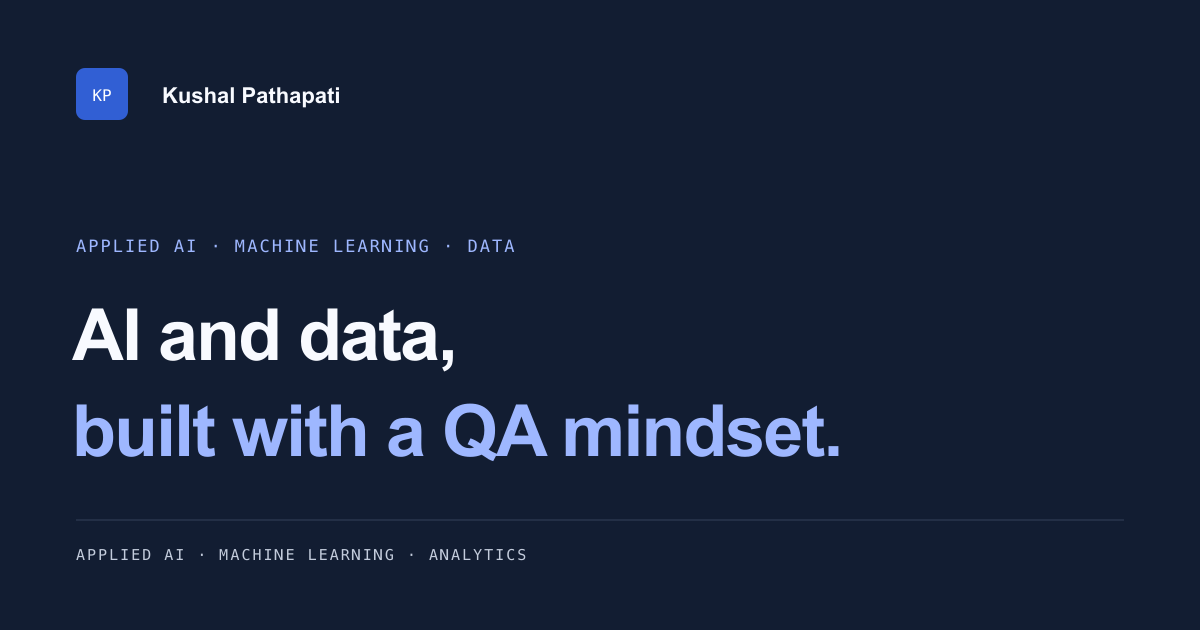
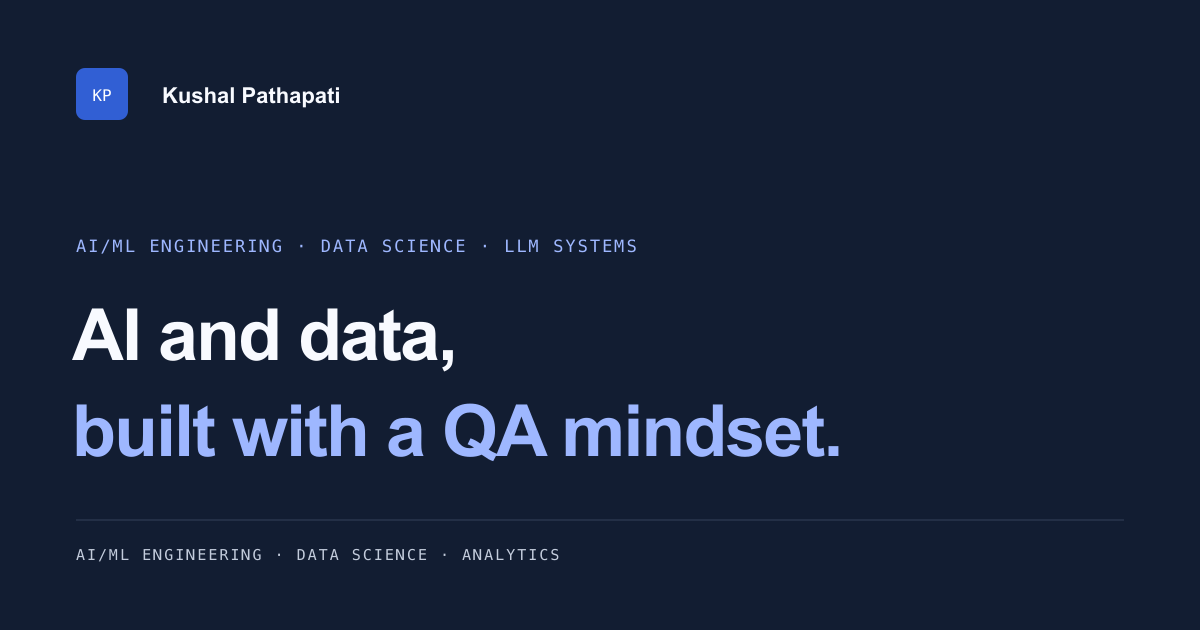
Add FinSight live app and refine AI data focus

Changed region(s): [[0.0617, 0.3619, 0.5242, 0.4222], [0.0617, 0.8746, 0.4625, 0.9048]]

diff --git a/src/pages/Index.tsx b/src/pages/Index.tsx
@@ -20,8 +20,9 @@ const projects = [
     date: "2026", category: "APPLIED AI · LLM SYSTEMS",
     summary: "A financial research assistant that routes questions to indexed SEC filing evidence, market-data tools, or both, then checks the answer against the evidence it collected.",
     repo: "https://github.com/Kushalraju098/FinSight_AI",
-    demo: "https://finsight-backend-626144383400.northamerica-northeast2.run.app/docs",
-    demoLabel: "API docs · may take ~30s after idle",
+    demo: "https://finsight-ai-626144383400.northamerica-northeast2.run.app/",
+    demoLabel: "Open live app",
+    apiDocs: "https://finsight-backend-626144383400.northamerica-northeast2.run.app/docs",
     tags: ["Python", "FastAPI", "LangGraph", "RAG", "Pinecone", "MCP", "Streamlit", "Docker", "Google Cloud Run"],
     proof: ["7-case evaluation set", "RAG + MCP routing", "SEC filing corpus"],
     problem: "Financial research questions often mix historical filing facts with live market information. Using one source for both makes it easy to give a stale price or an unsupported filing claim.",
@@ -91,10 +92,10 @@ const projects = [
 const skillGroups = [
   { title: "Programming & analytics", skills: ["Python", "SQL", "Pandas", "NumPy", "R", "Excel", "Power BI", "DAX"] },
   { title: "Machine learning", skills: ["scikit-learn", "XGBoost", "Regression", "Classification", "Model evaluation"] },
-  { title: "Deep learning & NLP", skills: ["TensorFlow", "NLP", "Text preprocessing"] },
+  { title: "Deep learning & NLP", skills: ["TensorFlow", "Neural networks", "Transformers", "NLP", "Text preprocessing"] },
   { title: "Generative AI", skills: ["RAG", "Embeddings", "LangChain", "LangGraph", "AI agents", "MCP", "LLM evaluation"] },
   { title: "Backend & integrations", skills: ["FastAPI", "Flask", "REST APIs", "Pydantic"] },
-  { title: "Automation & software quality", skills: ["Selenium", "Pytest", "Robot Framework"] },
+  { title: "Automation & software quality", skills: ["Selenium"] },
 ];
 
 const experience = [
@@ -156,6 +157,7 @@ function ProjectCaseStudy({ project, index }: { project: (typeof projects)[numbe
           <div className="case-links">
             <a href={project.repo} target="_blank" rel="noreferrer">Source <Github size={15} aria-hidden="true" /></a>
             {project.demo && <a href={project.demo} target="_blank" rel="noreferrer">{project.demoLabel} <ExternalLink size={15} aria-hidden="true" /></a>}
+            {project.apiDocs && <a href={project.apiDocs} target="_blank" rel="noreferrer">API docs <ExternalLink size={15} aria-hidden="true" /></a>}
           </div>
         </div>
         <p className="case-summary">{project.summary}</p>
@@ -252,10 +254,10 @@ export default function Index() {
             <div className="hero-copy">
               <div className="availability"><span className="availability-dot" /> TORONTO, ON <span className="availability-sep">·</span> OPEN TO OPPORTUNITIES</div>
               <h1 id="hero-title">AI and data,<br /><span>built with a QA mindset.</span></h1>
-              <p className="hero-lede">I build practical LLM and analytics applications with the testing discipline I developed in financial-data validation and software quality. I’m open to AI/ML engineering and data roles.</p>
+              <p className="hero-lede">I build practical LLM and analytics applications with the testing discipline I developed in financial-data validation and software quality. I’m open to AI/ML engineering and data scientist roles.</p>
               <div className="hero-actions"><a className="button button-dark" href="#projects">Explore my work <ArrowDown size={16} aria-hidden="true" /></a><a className="button button-outline" href="/resume.pdf" target="_blank" rel="noreferrer">View resume <ArrowUpRight size={15} aria-hidden="true" /></a></div>
             </div>
-            <figure className="hero-profile"><img src={profilePhoto} alt="Kushal Pathapati" fetchPriority="high" /><figcaption className="profile-caption"><span className="profile-location"><MapPin size={14} aria-hidden="true" /> Toronto, Ontario</span><span className="profile-note-label">FOCUS AREAS</span><span className="profile-focus">Applied AI <i>·</i> Machine learning <i>·</i> Data analytics</span></figcaption></figure>
+            <figure className="hero-profile"><img src={profilePhoto} alt="Kushal Pathapati" fetchPriority="high" /><figcaption className="profile-caption"><span className="profile-location"><MapPin size={14} aria-hidden="true" /> Toronto, Ontario</span><span className="profile-note-label">FOCUS AREAS</span><span className="profile-focus">AI/ML Engineering <i>·</i> Data Scientist</span></figcaption></figure>
           </div>
         </section>
 
@@ -300,7 +302,7 @@ export default function Index() {
         </section>
 
         <section className="contact section-pad" id="contact" aria-labelledby="contact-title">
-          <div className="contact-grid"><div className="contact-copy"><p className="eyebrow">CONTACT</p><h2 id="contact-title">Let’s build something <span>useful.</span></h2><p>I’m open to AI/ML engineering, analytics and data roles. For opportunities or project conversations, send me a note.</p><a className="contact-email" href="mailto:kushalraju098@gmail.com"><Mail size={16} aria-hidden="true" /> kushalraju098@gmail.com <ArrowUpRight size={15} aria-hidden="true" /></a><div className="social-links"><a href="https://github.com/Kushalraju098" target="_blank" rel="noreferrer"><Github size={17} aria-hidden="true" /> GitHub <ExternalLink size={12} aria-hidden="true" /></a><a href="https://linkedin.com/in/kushalpathapati" target="_blank" rel="noreferrer"><Linkedin size={17} aria-hidden="true" /> LinkedIn <ExternalLink size={12} aria-hidden="true" /></a></div><p className="contact-location"><MapPin size={14} aria-hidden="true" /> Toronto, Ontario, Canada</p></div>
+          <div className="contact-grid"><div className="contact-copy"><p className="eyebrow">CONTACT</p><h2 id="contact-title">Let’s build something <span>useful.</span></h2><p>I’m open to AI/ML engineering, data scientist and analytics roles. For opportunities or project conversations, send me a note.</p><a className="contact-email" href="mailto:kushalraju098@gmail.com"><Mail size={16} aria-hidden="true" /> kushalraju098@gmail.com <ArrowUpRight size={15} aria-hidden="true" /></a><div className="social-links"><a href="https://github.com/Kushalraju098" target="_blank" rel="noreferrer"><Github size={17} aria-hidden="true" /> GitHub <ExternalLink size={12} aria-hidden="true" /></a><a href="https://linkedin.com/in/kushalpathapati" target="_blank" rel="noreferrer"><Linkedin size={17} aria-hidden="true" /> LinkedIn <ExternalLink size={12} aria-hidden="true" /></a></div><p className="contact-location"><MapPin size={14} aria-hidden="true" /> Toronto, Ontario, Canada</p></div>
             <form className="contact-form" onSubmit={submitContact} noValidate>
               <div className="form-row"><label htmlFor="contact-name">Name</label><input id="contact-name" name="name" autoComplete="name" value={formData.name} onChange={(event) => setFormData({ ...formData, name: event.target.value })} required maxLength={100} /></div>
               <div className="form-row"><label htmlFor="contact-email">Email</label><input id="contact-email" name="email" type="email" autoComplete="email" value={formData.email} onChange={(event) => setFormData({ ...formData, email: event.target.value })} required maxLength={255} /></div>

diff --git a/index.html b/index.html
@@ -4,24 +4,24 @@
     <meta charset="UTF-8" />
     <meta name="viewport" content="width=device-width, initial-scale=1.0" />
     <meta name="theme-color" content="#121d32" />
-    <meta name="description" content="Kushal Pathapati is a Toronto-based AI/ML and data professional building practical LLM applications, machine learning workflows and analytics products." />
+    <meta name="description" content="Kushal Pathapati is a Toronto-based AI/ML engineer and data scientist building practical LLM applications, machine learning workflows and analytics products." />
     <meta name="author" content="Kushal Pathapati" />
     <link rel="canonical" href="https://kushalpathapati.vercel.app/" />
     <link rel="icon" href="/favicon.svg?v=2" type="image/svg+xml" />
     <meta property="og:type" content="website" />
     <meta property="og:url" content="https://kushalpathapati.vercel.app/" />
-    <meta property="og:title" content="Kushal Pathapati — Applied AI, Machine Learning & Data Analytics" />
-    <meta property="og:description" content="Applied AI, machine learning, retail analytics and data storytelling projects by Kushal Pathapati." />
+    <meta property="og:title" content="Kushal Pathapati — AI/ML Engineering & Data Science" />
+    <meta property="og:description" content="LLM applications, machine learning, retail analytics and data storytelling projects by Kushal Pathapati." />
     <meta property="og:image" content="https://kushalpathapati.vercel.app/og-image.png" />
     <meta property="og:image:type" content="image/png" />
     <meta property="og:image:width" content="1200" />
     <meta property="og:image:height" content="630" />
-    <meta property="og:image:alt" content="Kushal Pathapati — Applied AI, LLM Systems and Data Products" />
+    <meta property="og:image:alt" content="Kushal Pathapati — AI/ML Engineering, Data Science and LLM Systems" />
     <meta name="twitter:card" content="summary_large_image" />
-    <meta name="twitter:title" content="Kushal Pathapati — Applied AI, Machine Learning & Data Analytics" />
-    <meta name="twitter:description" content="Applied AI, machine learning, retail analytics and data storytelling projects by Kushal Pathapati." />
+    <meta name="twitter:title" content="Kushal Pathapati — AI/ML Engineering & Data Science" />
+    <meta name="twitter:description" content="LLM applications, machine learning, retail analytics and data storytelling projects by Kushal Pathapati." />
     <meta name="twitter:image" content="https://kushalpathapati.vercel.app/og-image.png" />
-    <title>Kushal Pathapati — Applied AI, Machine Learning & Data Analytics</title>
+    <title>Kushal Pathapati — AI/ML Engineering & Data Science</title>
   </head>
   <body>
     <div id="root"></div>

diff --git a/scripts/build_resume.py b/scripts/build_resume.py
@@ -101,7 +101,7 @@ contact = Paragraph(
 )
 head = Table([
     [Paragraph("KUSHAL PATHAPATI", styles["Name"]), contact],
-    [Paragraph("APPLIED AI  |  LLM SYSTEMS  |  DATA ANALYTICS", styles["Headline"]), ""],
+    [Paragraph("AI/ML ENGINEERING  |  DATA SCIENCE  |  LLM SYSTEMS", styles["Headline"]), ""],
 ], colWidths=[4.55 * inch, 2.05 * inch])
 head.setStyle(TableStyle([
     ("VALIGN", (0, 0), (-1, -1), "TOP"),
@@ -162,10 +162,10 @@ story.append(Paragraph("TECHNICAL SKILLS", styles["Section"]))
 skill_lines = [
     ("Programming and analytics", "Python, SQL, Pandas, NumPy, R, Excel, Power BI, DAX"),
     ("Machine learning", "scikit-learn, XGBoost, regression, classification, model evaluation"),
-    ("Deep learning and NLP", "TensorFlow, NLP, text preprocessing"),
+    ("Deep learning and NLP", "TensorFlow, neural networks, transformers, NLP, text preprocessing"),
     ("Generative AI", "RAG, embeddings, LangChain, LangGraph, AI agents, MCP, LLM evaluation"),
     ("Backend and integrations", "FastAPI, Flask, REST APIs, Pydantic"),
-    ("Automation and quality", "Selenium, Pytest, Robot Framework"),
+    ("Automation and quality", "Selenium"),
 ]
 for label, values in skill_lines:
     story.append(Paragraph("<b><font color='#275a42'>" + label + ":</font></b> " + values, styles["Skill"]))
